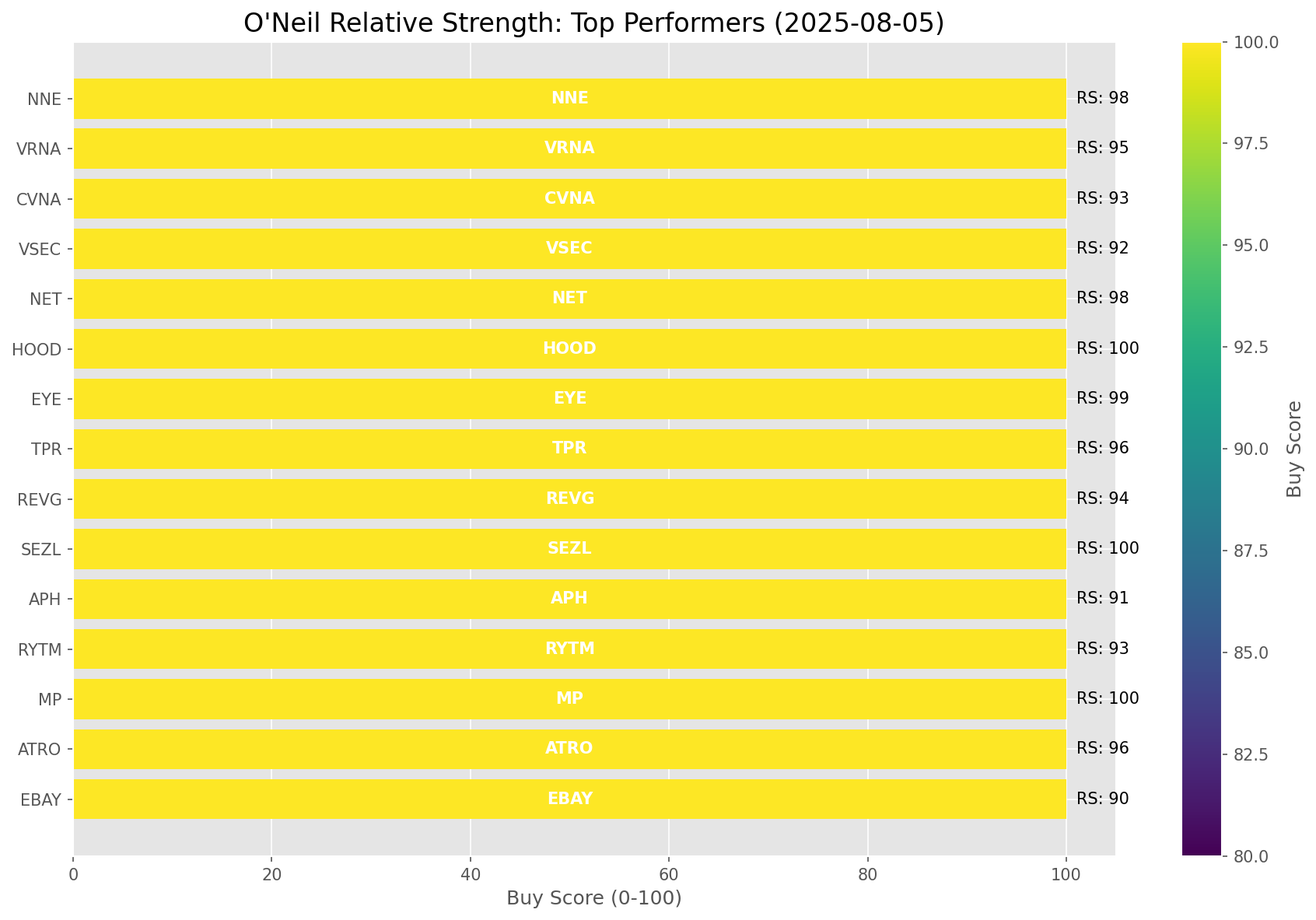
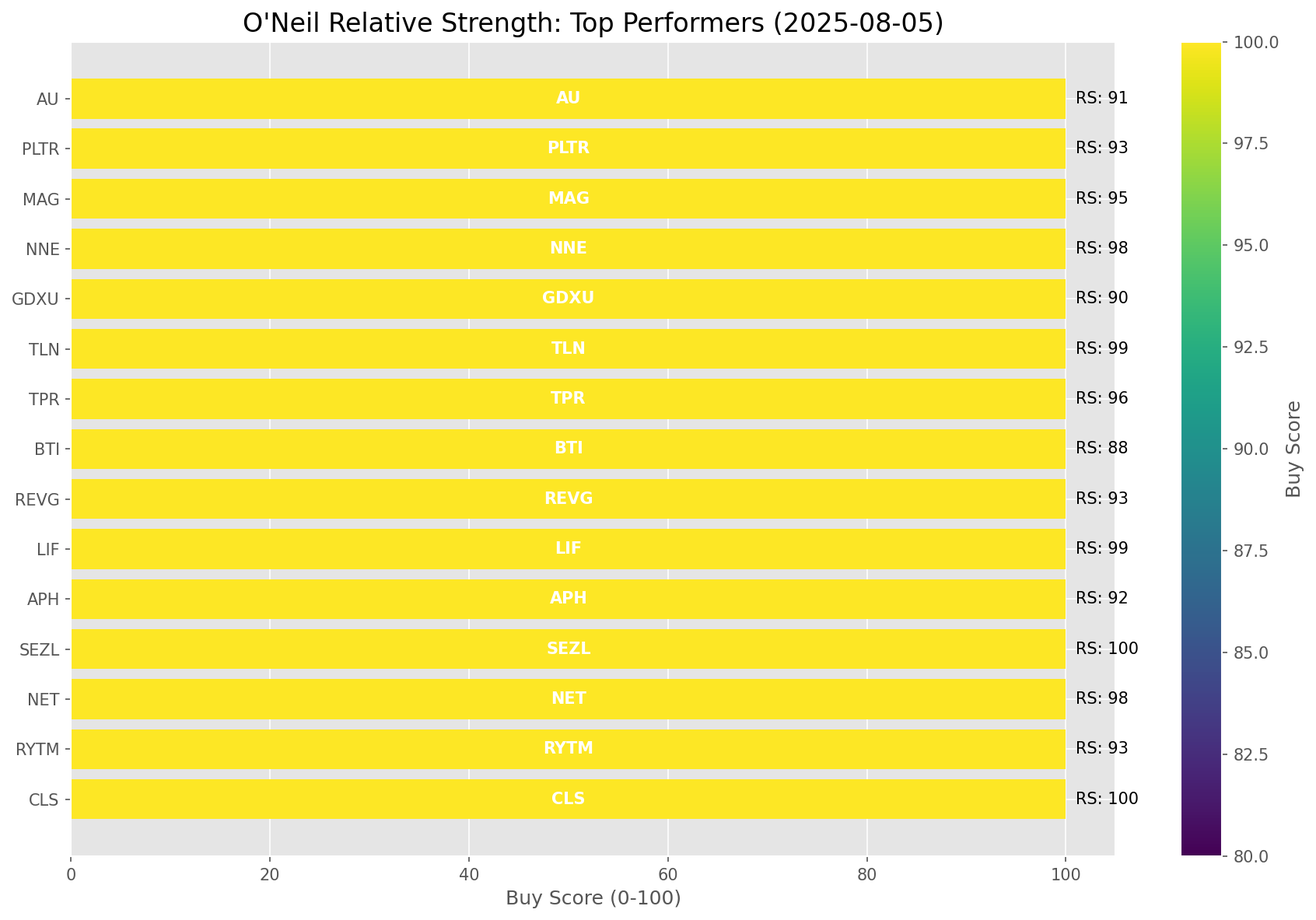
Add market report for 2025-08-05

diff --git a/oneil_relative_strength_report_2025-08-05.md b/oneil_relative_strength_report_2025-08-05.md
@@ -9,11 +9,11 @@
 | Metric | Value |
 |--------|-------|
 | **Market Valuation** | **Overvalued** |
-| **Current Ratio** | 10.19 |
+| **Current Ratio** | 10.20 |
 | **Historical Mean** | 9.60 |
 | **Standard Deviation** | 0.54 |
 | **Z-Score (StdDev from Mean)** | 1.17 |
-| **Total Market Cap** | $309.20 trillion |
+| **Total Market Cap** | $309.40 trillion |
 | **GDP** | $30.33 trillion |
 
 ## **Market Insights**
@@ -49,41 +49,41 @@ Based on William O'Neil's Relative Strength Methodology
 
 | ETF | Strength | RS Rating | Performance | Above Key MAs | Trend | Sector |
 |-----|----------|-----------|-------------|--------------|-------|--------|
-| [URA](https://www.tradingview.com/chart/?symbol=URA) | 88.6 | 97.0 | 55.44% | 10d ✗, 50d ✓, 200d ✓ | ↗ | Uranium |
+| [URA](https://www.tradingview.com/chart/?symbol=URA) | 88.6 | 97.0 | 57.04% | 10d ✗, 50d ✓, 200d ✓ | ↗ | Uranium |
 | [ARKW](https://www.tradingview.com/chart/?symbol=ARKW) | 88.1 | 96.0 | 47.59% | 10d ✗, 50d ✓, 200d ✓ | ↗ | Next Generation Internet |
-| [ARKK](https://www.tradingview.com/chart/?symbol=ARKK) | 87.6 | 95.0 | 43.78% | 10d ✗, 50d ✓, 200d ✓ | ↗ | Innovation |
-| [ARKF](https://www.tradingview.com/chart/?symbol=ARKF) | 87.6 | 95.0 | 43.14% | 10d ✗, 50d ✓, 200d ✓ | ↗ | Fintech Innovation |
-| [BLOK](https://www.tradingview.com/chart/?symbol=BLOK) | 86.6 | 93.0 | 36.45% | 10d ✗, 50d ✓, 200d ✓ | ↗ | Blockchain & Cryptocurrency |
-| [XLC](https://www.tradingview.com/chart/?symbol=XLC) | 82.5 | 65.0 | 10.24% | 10d ✓, 50d ✓, 200d ✓ | ↗ | Communications |
-| [XLK](https://www.tradingview.com/chart/?symbol=XLK) | 81.1 | 82.0 | 20.99% | 10d ✗, 50d ✓, 200d ✓ | ↗ | Technology |
-| [XLU](https://www.tradingview.com/chart/?symbol=XLU) | 81.0 | 62.0 | 8.90% | 10d ✓, 50d ✓, 200d ✓ | ↗ | Utilities |
-| [SLV](https://www.tradingview.com/chart/?symbol=SLV) | 78.1 | 76.0 | 16.35% | 10d ✗, 50d ✓, 200d ✓ | ↗ | Silver |
-| [AIQ](https://www.tradingview.com/chart/?symbol=AIQ) | 78.1 | 76.0 | 16.19% | 10d ✗, 50d ✓, 200d ✓ | ↗ | Artificial Intelligence & Technology |
-| [PAVE](https://www.tradingview.com/chart/?symbol=PAVE) | 76.1 | 72.0 | 14.05% | 10d ✗, 50d ✓, 200d ✓ | ↗ | Infrastructure |
-| [XLI](https://www.tradingview.com/chart/?symbol=XLI) | 74.1 | 68.0 | 11.62% | 10d ✗, 50d ✓, 200d ✓ | ↗ | Industrial |
-| [XLY](https://www.tradingview.com/chart/?symbol=XLY) | 72.1 | 64.0 | 9.97% | 10d ✗, 50d ✓, 200d ✓ | ↗ | Consumer Discretionary |
-| [IYZ](https://www.tradingview.com/chart/?symbol=IYZ) | 71.6 | 63.0 | 9.32% | 10d ✗, 50d ✓, 200d ✓ | ↗ | Telecommunications |
-| [GLD](https://www.tradingview.com/chart/?symbol=GLD) | 69.0 | 38.0 | 1.61% | 10d ✓, 50d ✓, 200d ✓ | ↗ | Gold |
-| [KWEB](https://www.tradingview.com/chart/?symbol=KWEB) | 66.1 | 52.0 | 5.64% | 10d ✗, 50d ✓, 200d ✓ | ↗ | Chinese Internet |
-| [SOXX](https://www.tradingview.com/chart/?symbol=SOXX) | 63.6 | 87.0 | 26.13% | 10d ✗, 50d ✓, 200d ✓ | ↘ | Semiconductors |
-| [ITB](https://www.tradingview.com/chart/?symbol=ITB) | 63.0 | 66.0 | 10.99% | 10d ✓, 50d ✓, 200d ✓ | ↘ | Home Construction |
-| [CIBR](https://www.tradingview.com/chart/?symbol=CIBR) | 57.7 | 55.0 | 6.53% | 10d ✗, 50d ✗, 200d ✓ | ↗ | Cybersecurity |
-| [ICLN](https://www.tradingview.com/chart/?symbol=ICLN) | 57.6 | 75.0 | 15.69% | 10d ✗, 50d ✓, 200d ✓ | ↘ | Clean Energy |
-| [XLF](https://www.tradingview.com/chart/?symbol=XLF) | 53.7 | 47.0 | 4.22% | 10d ✗, 50d ✗, 200d ✓ | ↗ | Financial |
-| [JETS](https://www.tradingview.com/chart/?symbol=JETS) | 53.0 | 66.0 | 10.96% | 10d ✗, 50d ✗, 200d ✗ | ↗ | Airlines |
-| [IBB](https://www.tradingview.com/chart/?symbol=IBB) | 47.6 | 55.0 | 6.42% | 10d ✗, 50d ✓, 200d ✓ | ↘ | Biotechnology |
-| [TLT](https://www.tradingview.com/chart/?symbol=TLT) | 37.8 | 36.0 | 1.26% | 10d ✓, 50d ✓, 200d ✗ | ↘ | Long-term Treasuries |
-| [IYR](https://www.tradingview.com/chart/?symbol=IYR) | 37.1 | 34.0 | 0.89% | 10d ✗, 50d ✓, 200d ✓ | ↘ | Real Estate |
-| [DBC](https://www.tradingview.com/chart/?symbol=DBC) | 36.7 | 53.0 | 6.02% | 10d ✗, 50d ✗, 200d ✓ | ↘ | Commodities |
-| [UUP](https://www.tradingview.com/chart/?symbol=UUP) | 35.3 | 31.0 | 0.24% | 10d ✓, 50d ✓, 200d ✗ | ↘ | U.S. Dollar |
-| [ARKG](https://www.tradingview.com/chart/?symbol=ARKG) | 31.5 | 63.0 | 9.26% | 10d ✗, 50d ✗, 200d ✗ | ↘ | Genomics |
-| [DBA](https://www.tradingview.com/chart/?symbol=DBA) | 30.5 | 21.0 | -4.03% | 10d ✗, 50d ✗, 200d ✗ | ↗ | Agriculture |
-| [IYT](https://www.tradingview.com/chart/?symbol=IYT) | 29.5 | 59.0 | 7.88% | 10d ✗, 50d ✗, 200d ✗ | ↘ | Transportation |
-| [XLE](https://www.tradingview.com/chart/?symbol=XLE) | 24.5 | 49.0 | 4.88% | 10d ✗, 50d ✗, 200d ✗ | ↘ | Energy |
-| [XLB](https://www.tradingview.com/chart/?symbol=XLB) | 24.0 | 48.0 | 4.45% | 10d ✗, 50d ✗, 200d ✗ | ↘ | Materials |
-| [BIL](https://www.tradingview.com/chart/?symbol=BIL) | 15.0 | 30.0 | 0.02% | 10d ✗, 50d ✗, 200d ✗ | ↘ | Short-term Treasuries |
-| [XLP](https://www.tradingview.com/chart/?symbol=XLP) | 13.5 | 27.0 | -1.03% | 10d ✗, 50d ✗, 200d ✗ | ↘ | Consumer Staples |
-| [XLV](https://www.tradingview.com/chart/?symbol=XLV) | 10.0 | 20.0 | -4.26% | 10d ✗, 50d ✗, 200d ✗ | ↘ | Healthcare |
+| [ARKK](https://www.tradingview.com/chart/?symbol=ARKK) | 87.6 | 95.0 | 43.89% | 10d ✗, 50d ✓, 200d ✓ | ↗ | Innovation |
+| [ARKF](https://www.tradingview.com/chart/?symbol=ARKF) | 87.6 | 95.0 | 43.08% | 10d ✗, 50d ✓, 200d ✓ | ↗ | Fintech Innovation |
+| [BLOK](https://www.tradingview.com/chart/?symbol=BLOK) | 86.6 | 93.0 | 36.65% | 10d ✗, 50d ✓, 200d ✓ | ↗ | Blockchain & Cryptocurrency |
+| [XLC](https://www.tradingview.com/chart/?symbol=XLC) | 82.0 | 64.0 | 10.17% | 10d ✓, 50d ✓, 200d ✓ | ↗ | Communications |
+| [XLK](https://www.tradingview.com/chart/?symbol=XLK) | 81.1 | 82.0 | 21.09% | 10d ✗, 50d ✓, 200d ✓ | ↗ | Technology |
+| [XLU](https://www.tradingview.com/chart/?symbol=XLU) | 80.0 | 60.0 | 8.55% | 10d ✓, 50d ✓, 200d ✓ | ↗ | Utilities |
+| [SLV](https://www.tradingview.com/chart/?symbol=SLV) | 78.1 | 76.0 | 16.44% | 10d ✗, 50d ✓, 200d ✓ | ↗ | Silver |
+| [AIQ](https://www.tradingview.com/chart/?symbol=AIQ) | 77.6 | 75.0 | 16.19% | 10d ✗, 50d ✓, 200d ✓ | ↗ | Artificial Intelligence & Technology |
+| [PAVE](https://www.tradingview.com/chart/?symbol=PAVE) | 76.1 | 72.0 | 14.41% | 10d ✗, 50d ✓, 200d ✓ | ↗ | Infrastructure |
+| [JETS](https://www.tradingview.com/chart/?symbol=JETS) | 74.1 | 68.0 | 11.67% | 10d ✗, 50d ✓, 200d ✓ | ↗ | Airlines |
+| [XLI](https://www.tradingview.com/chart/?symbol=XLI) | 74.1 | 68.0 | 11.86% | 10d ✗, 50d ✓, 200d ✓ | ↗ | Industrial |
+| [XLY](https://www.tradingview.com/chart/?symbol=XLY) | 72.1 | 64.0 | 9.94% | 10d ✗, 50d ✓, 200d ✓ | ↗ | Consumer Discretionary |
+| [IYZ](https://www.tradingview.com/chart/?symbol=IYZ) | 71.6 | 63.0 | 9.41% | 10d ✗, 50d ✓, 200d ✓ | ↗ | Telecommunications |
+| [GLD](https://www.tradingview.com/chart/?symbol=GLD) | 69.0 | 38.0 | 1.62% | 10d ✓, 50d ✓, 200d ✓ | ↗ | Gold |
+| [KWEB](https://www.tradingview.com/chart/?symbol=KWEB) | 66.1 | 52.0 | 5.84% | 10d ✗, 50d ✓, 200d ✓ | ↗ | Chinese Internet |
+| [SOXX](https://www.tradingview.com/chart/?symbol=SOXX) | 64.1 | 88.0 | 26.72% | 10d ✗, 50d ✓, 200d ✓ | ↘ | Semiconductors |
+| [ITB](https://www.tradingview.com/chart/?symbol=ITB) | 63.5 | 67.0 | 11.54% | 10d ✓, 50d ✓, 200d ✓ | ↘ | Home Construction |
+| [ICLN](https://www.tradingview.com/chart/?symbol=ICLN) | 57.6 | 75.0 | 15.60% | 10d ✗, 50d ✓, 200d ✓ | ↘ | Clean Energy |
+| [CIBR](https://www.tradingview.com/chart/?symbol=CIBR) | 57.2 | 54.0 | 6.35% | 10d ✗, 50d ✗, 200d ✓ | ↗ | Cybersecurity |
+| [XLF](https://www.tradingview.com/chart/?symbol=XLF) | 54.2 | 48.0 | 4.40% | 10d ✗, 50d ✗, 200d ✓ | ↗ | Financial |
+| [IBB](https://www.tradingview.com/chart/?symbol=IBB) | 47.6 | 55.0 | 6.59% | 10d ✗, 50d ✓, 200d ✓ | ↘ | Biotechnology |
+| [IYT](https://www.tradingview.com/chart/?symbol=IYT) | 39.7 | 59.0 | 8.18% | 10d ✗, 50d ✗, 200d ✓ | ↘ | Transportation |
+| [TLT](https://www.tradingview.com/chart/?symbol=TLT) | 37.3 | 35.0 | 1.10% | 10d ✓, 50d ✓, 200d ✗ | ↘ | Long-term Treasuries |
+| [IYR](https://www.tradingview.com/chart/?symbol=IYR) | 37.1 | 34.0 | 0.87% | 10d ✗, 50d ✓, 200d ✓ | ↘ | Real Estate |
+| [UUP](https://www.tradingview.com/chart/?symbol=UUP) | 35.3 | 31.0 | 0.18% | 10d ✓, 50d ✓, 200d ✗ | ↘ | U.S. Dollar |
+| [XLB](https://www.tradingview.com/chart/?symbol=XLB) | 34.7 | 49.0 | 4.76% | 10d ✗, 50d ✗, 200d ✓ | ↘ | Materials |
+| [ARKG](https://www.tradingview.com/chart/?symbol=ARKG) | 31.0 | 62.0 | 9.12% | 10d ✗, 50d ✗, 200d ✗ | ↘ | Genomics |
+| [DBA](https://www.tradingview.com/chart/?symbol=DBA) | 30.0 | 20.0 | -4.03% | 10d ✗, 50d ✗, 200d ✗ | ↗ | Agriculture |
+| [DBC](https://www.tradingview.com/chart/?symbol=DBC) | 26.5 | 53.0 | 6.15% | 10d ✗, 50d ✗, 200d ✗ | ↘ | Commodities |
+| [XLE](https://www.tradingview.com/chart/?symbol=XLE) | 25.5 | 51.0 | 5.56% | 10d ✗, 50d ✗, 200d ✗ | ↘ | Energy |
+| [BIL](https://www.tradingview.com/chart/?symbol=BIL) | 15.0 | 30.0 | 0.03% | 10d ✗, 50d ✗, 200d ✗ | ↘ | Short-term Treasuries |
+| [XLP](https://www.tradingview.com/chart/?symbol=XLP) | 13.0 | 26.0 | -1.21% | 10d ✗, 50d ✗, 200d ✗ | ↘ | Consumer Staples |
+| [XLV](https://www.tradingview.com/chart/?symbol=XLV) | 10.0 | 20.0 | -3.98% | 10d ✗, 50d ✗, 200d ✗ | ↘ | Healthcare |
 
 ### **Sector ETF Performance Interpretation**
 
@@ -100,73 +100,70 @@ This table shows the relative strength metrics for different market sectors base
 
 The current market leadership is coming from the following sectors: **Uranium, Next Generation Internet, Innovation**.
 
-The **Uranium** sector (represented by **URA**) is showing particularly strong relative strength with an RS rating of 97.0 and performance of 55.44% vs. the S&P 500. This sector is trading above its 50-day, 200-day moving average(s). Investors should consider focusing on high RS stocks within these leading sectors for potential outperformance.
+The **Uranium** sector (represented by **URA**) is showing particularly strong relative strength with an RS rating of 97.0 and performance of 57.04% vs. the S&P 500. This sector is trading above its 50-day, 200-day moving average(s). Investors should consider focusing on high RS stocks within these leading sectors for potential outperformance.
 
 ---
 
 ## **Buy Recommendations**
 
-The following 57 stocks show exceptional relative strength:
+The following 54 stocks show exceptional relative strength:
 
 | RS Rating | Buy Score | Current Price | Chart | Name | Ticker |
 |-----------|-----------|---------------|-------|------|--------|
-| 100 | 100 | $66.66 | [Chart](https://www.tradingview.com/chart/?symbol=MP) | MP Materials Corp. | MP |
-| 100 | 100 | $152.03 | [Chart](https://www.tradingview.com/chart/?symbol=SEZL) | Sezzle Inc. Common Stock | SEZL |
-| 100 | 100 | $105.21 | [Chart](https://www.tradingview.com/chart/?symbol=HOOD) | Robinhood Markets, Inc. Class A Common Stock | HOOD |
-| 100 | 100 | $238.01 | [Chart](https://www.tradingview.com/chart/?symbol=DAVE) | Dave Inc. Class A Common Stock | DAVE |
-| 100 | 100 | $194.39 | [Chart](https://www.tradingview.com/chart/?symbol=CLS) | Celestica, Inc. | CLS |
-| 100 | 100 | $110.47 | [Chart](https://www.tradingview.com/chart/?symbol=CRDO) | Credo Technology Group Holding Ltd Ordinary Shares | CRDO |
-| 99 | 100 | $25.07 | [Chart](https://www.tradingview.com/chart/?symbol=EYE) | National Vision Holdings, Inc. Common Stock | EYE |
-| 99 | 100 | $382.98 | [Chart](https://www.tradingview.com/chart/?symbol=TLN) | Talen Energy Corporation Common Stock | TLN |
-| 99 | 100 | $76.23 | [Chart](https://www.tradingview.com/chart/?symbol=LIF) | Life360, Inc. Common Stock | LIF |
-| 99 | 100 | $127.95 | [Chart](https://www.tradingview.com/chart/?symbol=RBLX) | Roblox Corporation | RBLX |
-| 98 | 100 | $208.40 | [Chart](https://www.tradingview.com/chart/?symbol=NET) | Cloudflare, Inc. Class A common stock, par value $0.001 per share | NET |
-| 98 | 100 | $37.39 | [Chart](https://www.tradingview.com/chart/?symbol=NNE) | Nano Nuclear Energy Inc. Common Stock | NNE |
-| 98 | 100 | $58.61 | [Chart](https://www.tradingview.com/chart/?symbol=KTOS) | Kratos Defense & Security Solutions, Inc. | KTOS |
-| 98 | 100 | $647.99 | [Chart](https://www.tradingview.com/chart/?symbol=GEV) | GE Vernova Inc. | GEV |
-| 97 | 100 | $182.91 | [Chart](https://www.tradingview.com/chart/?symbol=COOP) | Mr. Cooper Group Inc. Common Stock | COOP |
-| 96 | 100 | $35.27 | [Chart](https://www.tradingview.com/chart/?symbol=ATRO) | Astronics Corp | ATRO |
-| 96 | 100 | $110.09 | [Chart](https://www.tradingview.com/chart/?symbol=TPR) | Tapestry, Inc. Common Stock | TPR |
-| 96 | 100 | $115.64 | [Chart](https://www.tradingview.com/chart/?symbol=SANM) | Sanmina  Corp | SANM |
-| 95 | 100 | $105.28 | [Chart](https://www.tradingview.com/chart/?symbol=VRNA) | Verona Pharma plc | VRNA |
-| 95 | 100 | $21.28 | [Chart](https://www.tradingview.com/chart/?symbol=MAG) | MAG Silver Corp. | MAG |
-| 95 | 100 | $170.04 | [Chart](https://www.tradingview.com/chart/?symbol=NRG) | NRG Energy, Inc. | NRG |
-| 95 | 100 | $61.19 | [Chart](https://www.tradingview.com/chart/?symbol=HIMS) | Hims & Hers Health, Inc. | HIMS |
-| 94 | 100 | $49.55 | [Chart](https://www.tradingview.com/chart/?symbol=REVG) | REV Group, Inc. | REVG |
-| 94 | 100 | $172.86 | [Chart](https://www.tradingview.com/chart/?symbol=PLTR) | Palantir Technologies Inc. Class A Common Stock | PLTR |
-| 94 | 100 | $507.27 | [Chart](https://www.tradingview.com/chart/?symbol=CW) | Curtiss-Wright Corp. | CW |
-| 93 | 100 | $88.72 | [Chart](https://www.tradingview.com/chart/?symbol=RYTM) | Rhythm Pharmaceuticals, Inc. Common Stock | RYTM |
-| 93 | 100 | $357.55 | [Chart](https://www.tradingview.com/chart/?symbol=CVNA) | Carvana Co. | CVNA |
-| 93 | 100 | $849.24 | [Chart](https://www.tradingview.com/chart/?symbol=AXON) | Axon Enterprise, Inc. Common Stock | AXON |
-| 92 | 100 | $156.85 | [Chart](https://www.tradingview.com/chart/?symbol=VSEC) | VSE Corp | VSEC |
-| 92 | 100 | $42.98 | [Chart](https://www.tradingview.com/chart/?symbol=LTM) | LATAM Airlines Group S.A. American Depositary Shares (each representing two thousand (2,000) shares of Common Stock) | LTM |
-| 92 | 100 | $48.35 | [Chart](https://www.tradingview.com/chart/?symbol=TOST) | Toast, Inc. | TOST |
-| 91 | 100 | $107.37 | [Chart](https://www.tradingview.com/chart/?symbol=APH) | Amphenol Corporation | APH |
-| 91 | 100 | $55.63 | [Chart](https://www.tradingview.com/chart/?symbol=AU) | AngloGold Ashanti plc | AU |
-| 90 | 100 | $91.27 | [Chart](https://www.tradingview.com/chart/?symbol=EBAY) | eBay Inc | EBAY |
-| 89 | 100 | $81.79 | [Chart](https://www.tradingview.com/chart/?symbol=TPB) | Turning Point Brands, Inc. | TPB |
-| 88 | 100 | $55.91 | [Chart](https://www.tradingview.com/chart/?symbol=BTI) | British American Tobacco p.l.c. American Depositary Shares, American Depositary Shares, each representing one Ordinary Share | BTI |
-| 89 | 99 | $52.16 | [Chart](https://www.tradingview.com/chart/?symbol=PTCT) | PTC Therapeutics, Inc. | PTCT |
-| 89 | 99 | $388.37 | [Chart](https://www.tradingview.com/chart/?symbol=APP) | Applovin Corporation Class A Common Stock | APP |
-| 88 | 99 | $39.34 | [Chart](https://www.tradingview.com/chart/?symbol=ZLAB) | Zai Lab Limited American Depositary Shares | ZLAB |
-| 87 | 99 | $43.10 | [Chart](https://www.tradingview.com/chart/?symbol=FROG) | JFrog Ltd. Ordinary Shares | FROG |
-| 87 | 99 | $48.23 | [Chart](https://www.tradingview.com/chart/?symbol=BBIO) | BridgeBio Pharma, Inc. Common Stock | BBIO |
-| 86 | 99 | $33.72 | [Chart](https://www.tradingview.com/chart/?symbol=DB) | Deutsche Bank Aktiengesellschaft | DB |
-| 88 | 98 | $189.58 | [Chart](https://www.tradingview.com/chart/?symbol=AWI) | Armstrong World Industries, Inc. | AWI |
-| 88 | 98 | $50.43 | [Chart](https://www.tradingview.com/chart/?symbol=SIL) | Global X Silver Miners ETF (NEW) | SIL |
-| 85 | 98 | $57.57 | [Chart](https://www.tradingview.com/chart/?symbol=ERJ) | Embraer S.A. | ERJ |
+| 100 | 100 | $193.89 | [Chart](https://www.tradingview.com/chart/?symbol=CLS) | Celestica, Inc. | CLS |
+| 100 | 100 | $150.01 | [Chart](https://www.tradingview.com/chart/?symbol=SEZL) | Sezzle Inc. Common Stock | SEZL |
+| 100 | 100 | $110.24 | [Chart](https://www.tradingview.com/chart/?symbol=CRDO) | Credo Technology Group Holding Ltd Ordinary Shares | CRDO |
+| 100 | 100 | $66.72 | [Chart](https://www.tradingview.com/chart/?symbol=MP) | MP Materials Corp. | MP |
+| 100 | 100 | $104.16 | [Chart](https://www.tradingview.com/chart/?symbol=HOOD) | Robinhood Markets, Inc. Class A Common Stock | HOOD |
+| 100 | 100 | $239.25 | [Chart](https://www.tradingview.com/chart/?symbol=DAVE) | Dave Inc. Class A Common Stock | DAVE |
+| 99 | 100 | $76.06 | [Chart](https://www.tradingview.com/chart/?symbol=LIF) | Life360, Inc. Common Stock | LIF |
+| 99 | 100 | $381.77 | [Chart](https://www.tradingview.com/chart/?symbol=TLN) | Talen Energy Corporation Common Stock | TLN |
+| 99 | 100 | $128.12 | [Chart](https://www.tradingview.com/chart/?symbol=RBLX) | Roblox Corporation | RBLX |
+| 98 | 100 | $206.51 | [Chart](https://www.tradingview.com/chart/?symbol=NET) | Cloudflare, Inc. Class A common stock, par value $0.001 per share | NET |
+| 98 | 100 | $37.66 | [Chart](https://www.tradingview.com/chart/?symbol=NNE) | Nano Nuclear Energy Inc. Common Stock | NNE |
+| 98 | 100 | $651.90 | [Chart](https://www.tradingview.com/chart/?symbol=GEV) | GE Vernova Inc. | GEV |
+| 98 | 100 | $58.90 | [Chart](https://www.tradingview.com/chart/?symbol=KTOS) | Kratos Defense & Security Solutions, Inc. | KTOS |
+| 97 | 100 | $183.92 | [Chart](https://www.tradingview.com/chart/?symbol=COOP) | Mr. Cooper Group Inc. Common Stock | COOP |
+| 96 | 100 | $110.96 | [Chart](https://www.tradingview.com/chart/?symbol=TPR) | Tapestry, Inc. Common Stock | TPR |
+| 96 | 100 | $115.51 | [Chart](https://www.tradingview.com/chart/?symbol=SANM) | Sanmina  Corp | SANM |
+| 96 | 100 | $35.19 | [Chart](https://www.tradingview.com/chart/?symbol=ATRO) | Astronics Corp | ATRO |
+| 95 | 100 | $21.40 | [Chart](https://www.tradingview.com/chart/?symbol=MAG) | MAG Silver Corp. | MAG |
+| 95 | 100 | $105.30 | [Chart](https://www.tradingview.com/chart/?symbol=VRNA) | Verona Pharma plc | VRNA |
+| 95 | 100 | $169.39 | [Chart](https://www.tradingview.com/chart/?symbol=NRG) | NRG Energy, Inc. | NRG |
+| 94 | 100 | $510.88 | [Chart](https://www.tradingview.com/chart/?symbol=CW) | Curtiss-Wright Corp. | CW |
+| 93 | 100 | $88.89 | [Chart](https://www.tradingview.com/chart/?symbol=RYTM) | Rhythm Pharmaceuticals, Inc. Common Stock | RYTM |
+| 93 | 100 | $48.66 | [Chart](https://www.tradingview.com/chart/?symbol=REVG) | REV Group, Inc. | REVG |
+| 93 | 100 | $171.68 | [Chart](https://www.tradingview.com/chart/?symbol=PLTR) | Palantir Technologies Inc. Class A Common Stock | PLTR |
+| 93 | 100 | $851.08 | [Chart](https://www.tradingview.com/chart/?symbol=AXON) | Axon Enterprise, Inc. Common Stock | AXON |
+| 92 | 100 | $108.25 | [Chart](https://www.tradingview.com/chart/?symbol=APH) | Amphenol Corporation | APH |
+| 92 | 100 | $350.71 | [Chart](https://www.tradingview.com/chart/?symbol=CVNA) | Carvana Co. | CVNA |
+| 91 | 100 | $55.94 | [Chart](https://www.tradingview.com/chart/?symbol=AU) | AngloGold Ashanti plc | AU |
+| 91 | 100 | $42.97 | [Chart](https://www.tradingview.com/chart/?symbol=LTM) | LATAM Airlines Group S.A. American Depositary Shares (each representing two thousand (2,000) shares of Common Stock) | LTM |
+| 90 | 100 | $83.83 | [Chart](https://www.tradingview.com/chart/?symbol=GDXU) | MicroSectors Gold Miners 3x Leveraged ETN | GDXU |
+| 90 | 100 | $91.63 | [Chart](https://www.tradingview.com/chart/?symbol=EBAY) | eBay Inc | EBAY |
+| 88 | 100 | $55.90 | [Chart](https://www.tradingview.com/chart/?symbol=BTI) | British American Tobacco p.l.c. American Depositary Shares, American Depositary Shares, each representing one Ordinary Share | BTI |
+| 88 | 100 | $156.92 | [Chart](https://www.tradingview.com/chart/?symbol=VSEC) | VSE Corp | VSEC |
+| 89 | 99 | $52.45 | [Chart](https://www.tradingview.com/chart/?symbol=PTCT) | PTC Therapeutics, Inc. | PTCT |
+| 88 | 99 | $39.44 | [Chart](https://www.tradingview.com/chart/?symbol=ZLAB) | Zai Lab Limited American Depositary Shares | ZLAB |
+| 87 | 99 | $48.03 | [Chart](https://www.tradingview.com/chart/?symbol=BBIO) | BridgeBio Pharma, Inc. Common Stock | BBIO |
+| 86 | 99 | $33.69 | [Chart](https://www.tradingview.com/chart/?symbol=DB) | Deutsche Bank Aktiengesellschaft | DB |
+| 88 | 98 | $384.94 | [Chart](https://www.tradingview.com/chart/?symbol=APP) | Applovin Corporation Class A Common Stock | APP |
+| 88 | 98 | $50.51 | [Chart](https://www.tradingview.com/chart/?symbol=SIL) | Global X Silver Miners ETF (NEW) | SIL |
 | 87 | 97 | $261.65 | [Chart](https://www.tradingview.com/chart/?symbol=WTS) | Watts Water Technologies, Inc. Class A | WTS |
+| 87 | 97 | $189.58 | [Chart](https://www.tradingview.com/chart/?symbol=AWI) | Armstrong World Industries, Inc. | AWI |
 | 85 | 97 | $29.20 | [Chart](https://www.tradingview.com/chart/?symbol=OR) | OR Royalties Inc. | OR |
-| 84 | 97 | $91.59 | [Chart](https://www.tradingview.com/chart/?symbol=RBRK) | Rubrik, Inc. | RBRK |
-| 83 | 96 | $39.48 | [Chart](https://www.tradingview.com/chart/?symbol=AHR) | American Healthcare REIT, Inc. | AHR |
-| 84 | 94 | $95.67 | [Chart](https://www.tradingview.com/chart/?symbol=NDAQ) | Nasdaq, Inc. Common Stock | NDAQ |
-| 84 | 94 | $50.80 | [Chart](https://www.tradingview.com/chart/?symbol=FHI) | Federated Hermes, Inc. | FHI |
-| 83 | 93 | $19.64 | [Chart](https://www.tradingview.com/chart/?symbol=LQDA) | Liquidia Corporation Common Stock | LQDA |
-| 82 | 93 | $62.68 | [Chart](https://www.tradingview.com/chart/?symbol=WOR) | Worthington Enterprises, Inc. | WOR |
-| 82 | 93 | $242.45 | [Chart](https://www.tradingview.com/chart/?symbol=BAP) | Credicorp LTD | BAP |
-| 81 | 93 | $320.15 | [Chart](https://www.tradingview.com/chart/?symbol=FFIV) | F5, Inc. Common Stock | FFIV |
+| 84 | 97 | $57.17 | [Chart](https://www.tradingview.com/chart/?symbol=ERJ) | Embraer S.A. | ERJ |
+| 84 | 97 | $39.78 | [Chart](https://www.tradingview.com/chart/?symbol=AHR) | American Healthcare REIT, Inc. | AHR |
+| 84 | 95 | $146.88 | [Chart](https://www.tradingview.com/chart/?symbol=PPA) | Invesco Aerospace & Defense ETF | PPA |
+| 82 | 95 | $90.12 | [Chart](https://www.tradingview.com/chart/?symbol=RBRK) | Rubrik, Inc. | RBRK |
+| 84 | 94 | $95.90 | [Chart](https://www.tradingview.com/chart/?symbol=NDAQ) | Nasdaq, Inc. Common Stock | NDAQ |
+| 84 | 94 | $50.96 | [Chart](https://www.tradingview.com/chart/?symbol=FHI) | Federated Hermes, Inc. | FHI |
+| 83 | 93 | $19.62 | [Chart](https://www.tradingview.com/chart/?symbol=LQDA) | Liquidia Corporation Common Stock | LQDA |
 | 82 | 92 | $113.40 | [Chart](https://www.tradingview.com/chart/?symbol=SXT) | Sensient Technology Corporation | SXT |
-| 80 | 91 | $28.63 | [Chart](https://www.tradingview.com/chart/?symbol=PAAS) | Pan American Silver Corp. | PAAS |
+| 81 | 92 | $62.68 | [Chart](https://www.tradingview.com/chart/?symbol=WOR) | Worthington Enterprises, Inc. | WOR |
+| 81 | 92 | $242.45 | [Chart](https://www.tradingview.com/chart/?symbol=BAP) | Credicorp LTD | BAP |
+| 81 | 92 | $28.78 | [Chart](https://www.tradingview.com/chart/?symbol=PAAS) | Pan American Silver Corp. | PAAS |
+| 80 | 92 | $320.15 | [Chart](https://www.tradingview.com/chart/?symbol=FFIV) | F5, Inc. Common Stock | FFIV |
 
 ---
 
@@ -177,64 +174,64 @@ The following 58 stocks show deteriorating relative strength:
 
 | RS Rating | Sell Score | Current Price | Chart | Name | Ticker |
 |-----------|------------|---------------|-------|------|--------|
-| 1 | 100 | $12.05 | [Chart](https://www.tradingview.com/chart/?symbol=NVDS) | Investment Managers Series Trust II Tradr 1.5X Short NVDA Daily ETF | NVDS |
-| 1 | 100 | $16.93 | [Chart](https://www.tradingview.com/chart/?symbol=GPCR) | Structure Therapeutics Inc. American Depositary Shares | GPCR |
-| 2 | 100 | $13.69 | [Chart](https://www.tradingview.com/chart/?symbol=CLBT) | Cellebrite DI Ltd. Class A Ordinary Shares | CLBT |
-| 2 | 100 | $73.27 | [Chart](https://www.tradingview.com/chart/?symbol=LNTH) | Lantheus Holdings, Inc | LNTH |
-| 2 | 100 | $23.52 | [Chart](https://www.tradingview.com/chart/?symbol=ZSL) | ProShares UltraShort Silver | ZSL |
-| 2 | 100 | $16.62 | [Chart](https://www.tradingview.com/chart/?symbol=DJT) | Trump Media & Technology Group Corp. Common Stock | DJT |
-| 6 | 100 | $116.32 | [Chart](https://www.tradingview.com/chart/?symbol=RGEN) | Repligen Corp | RGEN |
-| 6 | 100 | $25.54 | [Chart](https://www.tradingview.com/chart/?symbol=TBBB) | BBB Foods Inc. | TBBB |
-| 7 | 100 | $10.37 | [Chart](https://www.tradingview.com/chart/?symbol=OEC) | Orion S.A. | OEC |
-| 7 | 100 | $12.84 | [Chart](https://www.tradingview.com/chart/?symbol=CDNA) | CareDx, Inc. | CDNA |
+| 1 | 100 | $12.00 | [Chart](https://www.tradingview.com/chart/?symbol=NVDS) | Investment Managers Series Trust II Tradr 1.5X Short NVDA Daily ETF | NVDS |
+| 1 | 100 | $16.81 | [Chart](https://www.tradingview.com/chart/?symbol=GPCR) | Structure Therapeutics Inc. American Depositary Shares | GPCR |
+| 2 | 100 | $23.48 | [Chart](https://www.tradingview.com/chart/?symbol=ZSL) | ProShares UltraShort Silver | ZSL |
+| 2 | 100 | $13.72 | [Chart](https://www.tradingview.com/chart/?symbol=CLBT) | Cellebrite DI Ltd. Class A Ordinary Shares | CLBT |
+| 2 | 100 | $73.15 | [Chart](https://www.tradingview.com/chart/?symbol=LNTH) | Lantheus Holdings, Inc | LNTH |
+| 2 | 100 | $16.48 | [Chart](https://www.tradingview.com/chart/?symbol=DJT) | Trump Media & Technology Group Corp. Common Stock | DJT |
+| 6 | 100 | $117.16 | [Chart](https://www.tradingview.com/chart/?symbol=RGEN) | Repligen Corp | RGEN |
+| 6 | 100 | $12.77 | [Chart](https://www.tradingview.com/chart/?symbol=CDNA) | CareDx, Inc. | CDNA |
+| 6 | 100 | $10.37 | [Chart](https://www.tradingview.com/chart/?symbol=OEC) | Orion S.A. | OEC |
+| 6 | 100 | $25.56 | [Chart](https://www.tradingview.com/chart/?symbol=TBBB) | BBB Foods Inc. | TBBB |
+| 7 | 100 | $21.52 | [Chart](https://www.tradingview.com/chart/?symbol=AMPH) | Amphastar Pharmaceuticals, Inc. | AMPH |
+| 8 | 100 | $35.95 | [Chart](https://www.tradingview.com/chart/?symbol=LZB) | La-Z-Boy Incorporated | LZB |
 | 8 | 100 | $20.95 | [Chart](https://www.tradingview.com/chart/?symbol=AMRK) | A-Mark Precious Metals, Inc. | AMRK |
-| 9 | 100 | $35.95 | [Chart](https://www.tradingview.com/chart/?symbol=LZB) | La-Z-Boy Incorporated | LZB |
-| 10 | 100 | $54.38 | [Chart](https://www.tradingview.com/chart/?symbol=HRB) | H&R Block, Inc. | HRB |
 | 14 | 100 | $53.45 | [Chart](https://www.tradingview.com/chart/?symbol=AMWD) | American Woodmark Corp | AMWD |
-| 5 | 99 | $41.91 | [Chart](https://www.tradingview.com/chart/?symbol=SDOW) | ProShares UltraPro Short Dow 30 | SDOW |
-| 6 | 99 | $13.78 | [Chart](https://www.tradingview.com/chart/?symbol=EWTX) | Edgewise Therapeutics, Inc. Common Stock | EWTX |
-| 7 | 99 | $56.22 | [Chart](https://www.tradingview.com/chart/?symbol=ATKR) | Atkore Inc. | ATKR |
-| 7 | 98 | $19.38 | [Chart](https://www.tradingview.com/chart/?symbol=GAP) | The Gap, Inc. | GAP |
+| 5 | 99 | $41.66 | [Chart](https://www.tradingview.com/chart/?symbol=SDOW) | ProShares UltraPro Short Dow 30 | SDOW |
+| 6 | 98 | $13.74 | [Chart](https://www.tradingview.com/chart/?symbol=EWTX) | Edgewise Therapeutics, Inc. Common Stock | EWTX |
+| 7 | 98 | $20.57 | [Chart](https://www.tradingview.com/chart/?symbol=BLFS) | BioLife Solutions Inc. | BLFS |
+| 7 | 98 | $19.44 | [Chart](https://www.tradingview.com/chart/?symbol=GAP) | The Gap, Inc. | GAP |
 | 9 | 98 | $22.54 | [Chart](https://www.tradingview.com/chart/?symbol=ERY) | Direxion Daily Energy Bear 2X Shares | ERY |
-| 12 | 98 | $15.15 | [Chart](https://www.tradingview.com/chart/?symbol=FIHL) | Fidelis Insurance Holdings Limited | FIHL |
-| 6 | 97 | $20.89 | [Chart](https://www.tradingview.com/chart/?symbol=BLFS) | BioLife Solutions Inc. | BLFS |
-| 10 | 97 | $12.71 | [Chart](https://www.tradingview.com/chart/?symbol=BSM) | Black Stone Minerals, L.P. | BSM |
-| 10 | 97 | $18.78 | [Chart](https://www.tradingview.com/chart/?symbol=AVBP) | ArriVent BioPharma, Inc. Common Stock | AVBP |
-| 12 | 96 | $49.43 | [Chart](https://www.tradingview.com/chart/?symbol=PRCT) | PROCEPT BioRobotics Corporation Common Stock | PRCT |
-| 10 | 94 | $15.07 | [Chart](https://www.tradingview.com/chart/?symbol=PLSE) | Pulse Biosciences, Inc Common Stock (DE) | PLSE |
-| 11 | 94 | $39.29 | [Chart](https://www.tradingview.com/chart/?symbol=SH) | ProShares Short S&P500 | SH |
-| 14 | 94 | $16.66 | [Chart](https://www.tradingview.com/chart/?symbol=CTO) | CTO Realty Growth, Inc. | CTO |
-| 19 | 93 | $37.16 | [Chart](https://www.tradingview.com/chart/?symbol=PBA) | PEMBINA PIPELINE CORPORATION | PBA |
-| 9 | 92 | $24.45 | [Chart](https://www.tradingview.com/chart/?symbol=DXD) | ProShares UltraShort Dow 30 | DXD |
-| 16 | 91 | $13.24 | [Chart](https://www.tradingview.com/chart/?symbol=GOOD) | Gladstone Commercial Corporation - REIT | GOOD |
-| 16 | 91 | $21.89 | [Chart](https://www.tradingview.com/chart/?symbol=CURB) | Curbline Properties Corp. | CURB |
-| 14 | 89 | $10.27 | [Chart](https://www.tradingview.com/chart/?symbol=ACIC) | American Coastal Insurance Corporation Common Stock | ACIC |
-| 19 | 89 | $12.87 | [Chart](https://www.tradingview.com/chart/?symbol=CCRN) | Cross Country Healthcare Inc | CCRN |
-| 14 | 88 | $41.56 | [Chart](https://www.tradingview.com/chart/?symbol=BILL) | BILL Holdings, Inc. | BILL |
+| 13 | 98 | $15.39 | [Chart](https://www.tradingview.com/chart/?symbol=FIHL) | Fidelis Insurance Holdings Limited | FIHL |
+| 10 | 96 | $12.71 | [Chart](https://www.tradingview.com/chart/?symbol=BSM) | Black Stone Minerals, L.P. | BSM |
+| 13 | 96 | $19.47 | [Chart](https://www.tradingview.com/chart/?symbol=AVBP) | ArriVent BioPharma, Inc. Common Stock | AVBP |
+| 9 | 95 | $15.07 | [Chart](https://www.tradingview.com/chart/?symbol=PLSE) | Pulse Biosciences, Inc Common Stock (DE) | PLSE |
+| 13 | 95 | $16.66 | [Chart](https://www.tradingview.com/chart/?symbol=CTO) | CTO Realty Growth, Inc. | CTO |
+| 13 | 95 | $49.65 | [Chart](https://www.tradingview.com/chart/?symbol=PRCT) | PROCEPT BioRobotics Corporation Common Stock | PRCT |
+| 11 | 94 | $39.26 | [Chart](https://www.tradingview.com/chart/?symbol=SH) | ProShares Short S&P500 | SH |
+| 18 | 94 | $22.14 | [Chart](https://www.tradingview.com/chart/?symbol=CURB) | Curbline Properties Corp. | CURB |
+| 8 | 93 | $24.36 | [Chart](https://www.tradingview.com/chart/?symbol=DXD) | ProShares UltraShort Dow 30 | DXD |
+| 15 | 92 | $13.24 | [Chart](https://www.tradingview.com/chart/?symbol=GOOD) | Gladstone Commercial Corporation - REIT | GOOD |
+| 19 | 92 | $37.25 | [Chart](https://www.tradingview.com/chart/?symbol=PBA) | PEMBINA PIPELINE CORPORATION | PBA |
+| 13 | 90 | $10.27 | [Chart](https://www.tradingview.com/chart/?symbol=ACIC) | American Coastal Insurance Corporation Common Stock | ACIC |
+| 18 | 90 | $12.87 | [Chart](https://www.tradingview.com/chart/?symbol=CCRN) | Cross Country Healthcare Inc | CCRN |
 | 20 | 88 | $87.50 | [Chart](https://www.tradingview.com/chart/?symbol=BCO) | The Brink's Company | BCO |
-| 23 | 88 | $44.49 | [Chart](https://www.tradingview.com/chart/?symbol=EPI) | WisdomTree India Earnings Fund ETF | EPI |
-| 22 | 87 | $35.69 | [Chart](https://www.tradingview.com/chart/?symbol=VNO) | Vornado Realty Trust | VNO |
-| 29 | 87 | $16.67 | [Chart](https://www.tradingview.com/chart/?symbol=SVOL) | Simplify Volatility Premium ETF | SVOL |
-| 17 | 86 | $98.92 | [Chart](https://www.tradingview.com/chart/?symbol=AFL) | Aflac Inc. | AFL |
-| 21 | 86 | $86.66 | [Chart](https://www.tradingview.com/chart/?symbol=BIDU) | Baidu, Inc. | BIDU |
-| 30 | 86 | $11.85 | [Chart](https://www.tradingview.com/chart/?symbol=M) | Macy's Inc. | M |
+| 22 | 88 | $44.48 | [Chart](https://www.tradingview.com/chart/?symbol=EPI) | WisdomTree India Earnings Fund ETF | EPI |
+| 15 | 87 | $41.87 | [Chart](https://www.tradingview.com/chart/?symbol=BILL) | BILL Holdings, Inc. | BILL |
+| 16 | 87 | $98.97 | [Chart](https://www.tradingview.com/chart/?symbol=AFL) | Aflac Inc. | AFL |
+| 29 | 87 | $16.69 | [Chart](https://www.tradingview.com/chart/?symbol=SVOL) | Simplify Volatility Premium ETF | SVOL |
+| 21 | 86 | $86.74 | [Chart](https://www.tradingview.com/chart/?symbol=BIDU) | Baidu, Inc. | BIDU |
+| 22 | 86 | $35.84 | [Chart](https://www.tradingview.com/chart/?symbol=VNO) | Vornado Realty Trust | VNO |
 | 19 | 85 | $12.12 | [Chart](https://www.tradingview.com/chart/?symbol=WSR) | Whitestone REIT | WSR |
-| 24 | 85 | $94.76 | [Chart](https://www.tradingview.com/chart/?symbol=IRM) | Iron Mountain Inc. | IRM |
-| 23 | 84 | $12.60 | [Chart](https://www.tradingview.com/chart/?symbol=ZYME) | Zymeworks Inc. | ZYME |
-| 18 | 83 | $60.12 | [Chart](https://www.tradingview.com/chart/?symbol=UL) | Unilever plc | UL |
-| 25 | 83 | $13.19 | [Chart](https://www.tradingview.com/chart/?symbol=OCSL) | Oaktree Specialty Lending Corporation | OCSL |
-| 28 | 82 | $40.60 | [Chart](https://www.tradingview.com/chart/?symbol=APOG) | Apogee Enterprises Inc | APOG |
-| 20 | 81 | $24.96 | [Chart](https://www.tradingview.com/chart/?symbol=WKC) | World Kinect Corporation | WKC |
-| 22 | 81 | $12.02 | [Chart](https://www.tradingview.com/chart/?symbol=NU) | Nu Holdings Ltd. | NU |
-| 21 | 79 | $10.32 | [Chart](https://www.tradingview.com/chart/?symbol=BRKL) | Brookline Bancorp Inc | BRKL |
-| 24 | 79 | $31.61 | [Chart](https://www.tradingview.com/chart/?symbol=DAR) | DARLING INGREDIENTS INC. | DAR |
-| 26 | 78 | $12.32 | [Chart](https://www.tradingview.com/chart/?symbol=RQI) | COHEN & STEERS QUALITY INCOME REALTY FUND, INC. COMMON SHARES | RQI |
+| 23 | 85 | $94.34 | [Chart](https://www.tradingview.com/chart/?symbol=IRM) | Iron Mountain Inc. | IRM |
+| 24 | 85 | $12.58 | [Chart](https://www.tradingview.com/chart/?symbol=ZYME) | Zymeworks Inc. | ZYME |
+| 32 | 84 | $11.88 | [Chart](https://www.tradingview.com/chart/?symbol=M) | Macy's Inc. | M |
+| 18 | 83 | $60.13 | [Chart](https://www.tradingview.com/chart/?symbol=UL) | Unilever plc | UL |
+| 19 | 83 | $10.22 | [Chart](https://www.tradingview.com/chart/?symbol=BRKL) | Brookline Bancorp Inc | BRKL |
+| 27 | 83 | $40.60 | [Chart](https://www.tradingview.com/chart/?symbol=APOG) | Apogee Enterprises Inc | APOG |
+| 25 | 82 | $13.15 | [Chart](https://www.tradingview.com/chart/?symbol=OCSL) | Oaktree Specialty Lending Corporation | OCSL |
+| 22 | 81 | $12.09 | [Chart](https://www.tradingview.com/chart/?symbol=NU) | Nu Holdings Ltd. | NU |
+| 21 | 80 | $25.05 | [Chart](https://www.tradingview.com/chart/?symbol=WKC) | World Kinect Corporation | WKC |
+| 24 | 79 | $31.79 | [Chart](https://www.tradingview.com/chart/?symbol=DAR) | DARLING INGREDIENTS INC. | DAR |
 | 27 | 77 | $56.30 | [Chart](https://www.tradingview.com/chart/?symbol=USRT) | iShares Core U.S. REIT ETF | USRT |
-| 30 | 76 | $59.91 | [Chart](https://www.tradingview.com/chart/?symbol=FTSM) | First Trust Enhanced Short Maturity ETF | FTSM |
-| 31 | 73 | $30.74 | [Chart](https://www.tradingview.com/chart/?symbol=FLRN) | SPDR Bloomberg Investment Grade Floating Rate ETF | FLRN |
+| 29 | 77 | $23.29 | [Chart](https://www.tradingview.com/chart/?symbol=IBTF) | iShares iBonds Dec 2025 Term Treasury ETF | IBTF |
+| 33 | 76 | $20.91 | [Chart](https://www.tradingview.com/chart/?symbol=BKLN) | Invesco Senior Loan ETF | BKLN |
+| 30 | 75 | $59.91 | [Chart](https://www.tradingview.com/chart/?symbol=FTSM) | First Trust Enhanced Short Maturity ETF | FTSM |
+| 39 | 75 | $24.08 | [Chart](https://www.tradingview.com/chart/?symbol=FLBL) | Franklin Senior Loan ETF | FLBL |
+| 29 | 73 | $22.86 | [Chart](https://www.tradingview.com/chart/?symbol=IBTG) | iShares iBonds Dec 2026 Term Treasury ETF | IBTG |
+| 31 | 73 | $30.73 | [Chart](https://www.tradingview.com/chart/?symbol=FLRN) | SPDR Bloomberg Investment Grade Floating Rate ETF | FLRN |
 | 32 | 73 | $18.95 | [Chart](https://www.tradingview.com/chart/?symbol=KRNT) | Kornit Digital Ltd. | KRNT |
-| 30 | 72 | $23.30 | [Chart](https://www.tradingview.com/chart/?symbol=IBTF) | iShares iBonds Dec 2025 Term Treasury ETF | IBTF |
-| 29 | 71 | $22.86 | [Chart](https://www.tradingview.com/chart/?symbol=IBTG) | iShares iBonds Dec 2026 Term Treasury ETF | IBTG |
 
 ## **Methodology**
 
